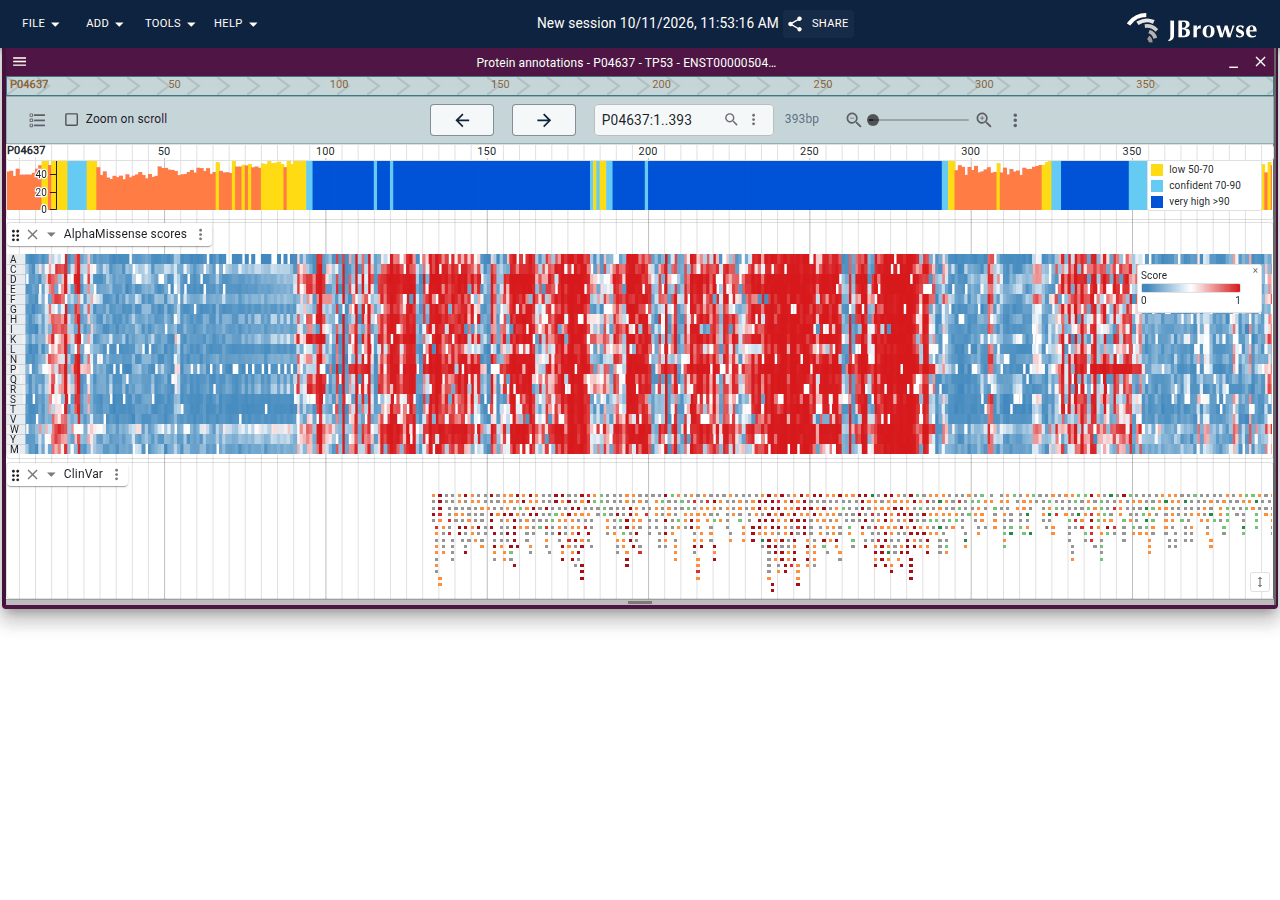
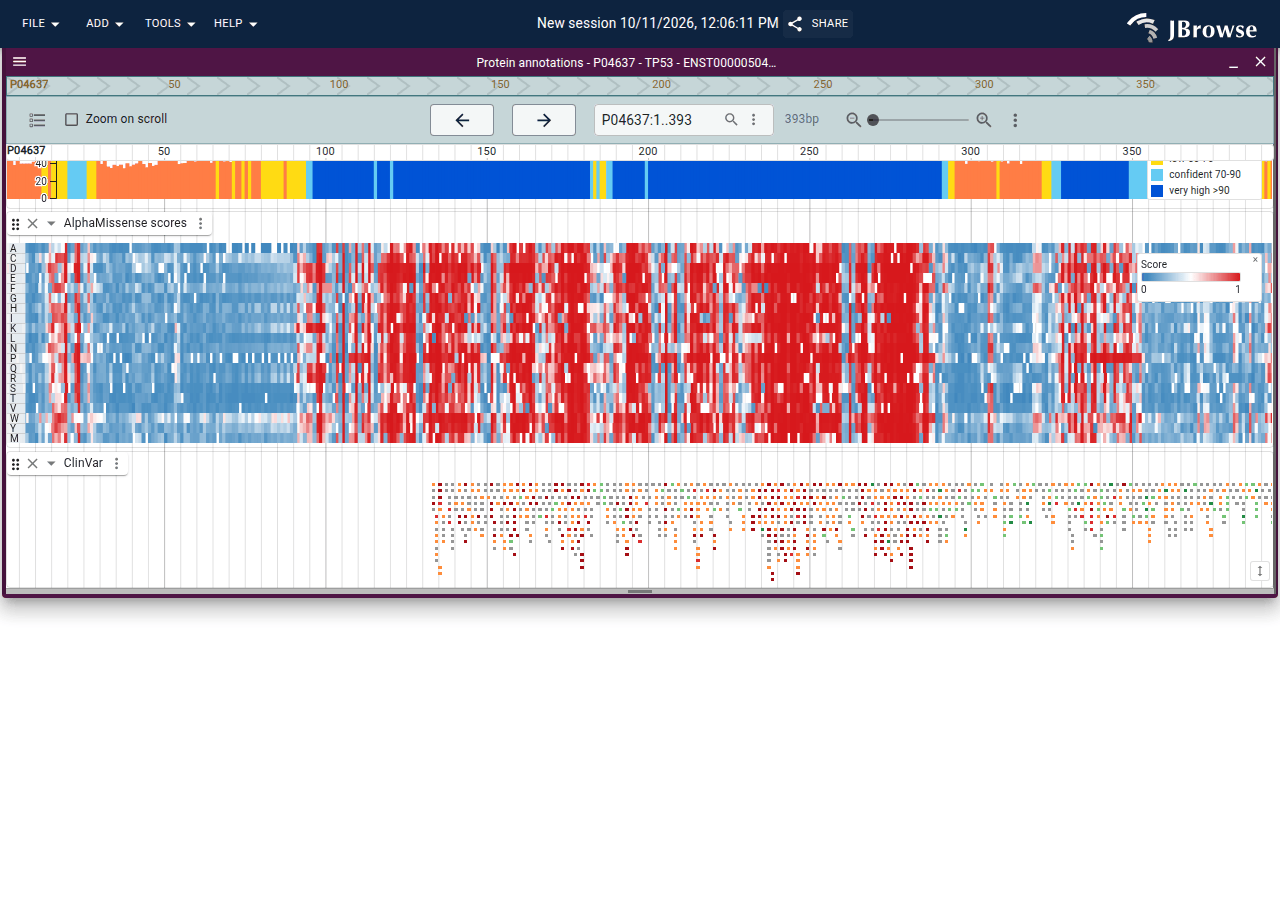
e2e: find the ClinVar track by the host's test id; picture it

Changed region(s): [[0.0, 0.1556, 1.0, 0.7156], [0.5, 0.0, 0.5938, 0.0311], [0.75, 0.1556, 0.8125, 0.1867]]

diff --git a/test/plugin.test.ts b/test/plugin.test.ts
@@ -768,13 +768,11 @@ describe('Protein3d Plugin E2E', () => {
 
     await requests.idle(2000, 120_000)
     expect(pageComplaintsSince()).toEqual([])
-    // the last track opened sits below the fold
-    await page.evaluate(() => {
-      const label = [...document.querySelectorAll('span, div')].find(
-        e => e.childElementCount === 0 && e.textContent === 'ClinVar',
-      )
-      label?.scrollIntoView({ block: 'center' })
-    })
+    // the last track opened sits below the fold; the host names each track's
+    // container by view and track id
+    await page.evaluate(selector => {
+      document.querySelector(selector)?.scrollIntoView({ block: 'center' })
+    }, `[data-testid="trackRenderingContainer-${viewId}-${viewId}-P04637-ClinVar"]`)
     await captureScreenshot(page, screenshot('14-1d-clinvar'))
   }, 300_000)
 })

diff --git a/CLAUDE.md b/CLAUDE.md
@@ -24,7 +24,7 @@ re-export, so `esbuild.mjs` leaves it alone and no host can drop it.
 The UniProt alignment of an entry (what SIFTS curates), its protein sequences
 and the list of entries for an accession all come from RCSB's GraphQL APIs
 (`data.rcsb.org`, `sequence-coordinates.rcsb.org`) since p2s_mapper 2.0.0. PDBe
-served the same data until 2026-10-11, and the switch was measured, not taste:
+served the same data until 2026-10-11, and the numbers decided the switch:
 RCSB's alignment agreed with SIFTS on every residue of 23 entries, 2RH1 and the
 7K00 ribosome included, and answered in 3 s where PDBe took 24 s and 500'd on
 6OIJ; 3D-Beacons listed no structure for BRCA1 that both had 33 for, and PDBe's
